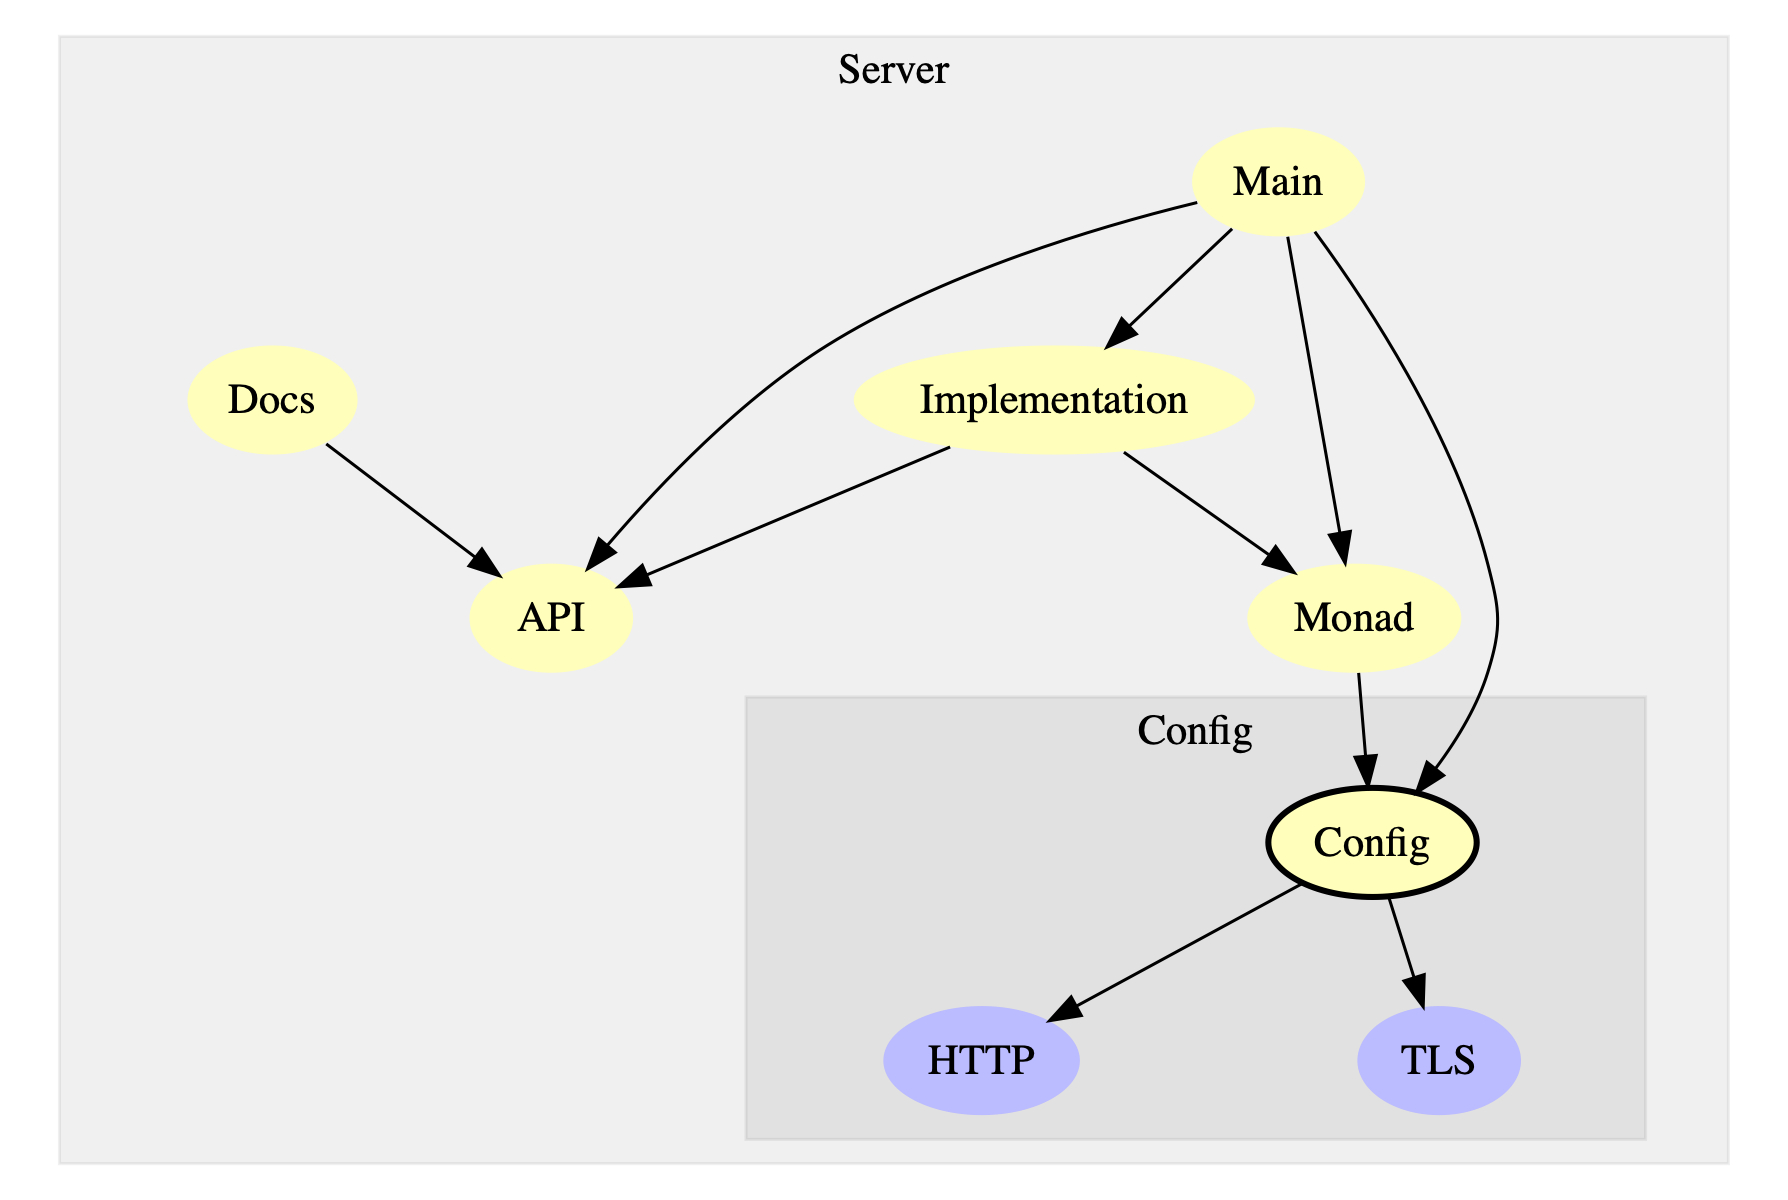
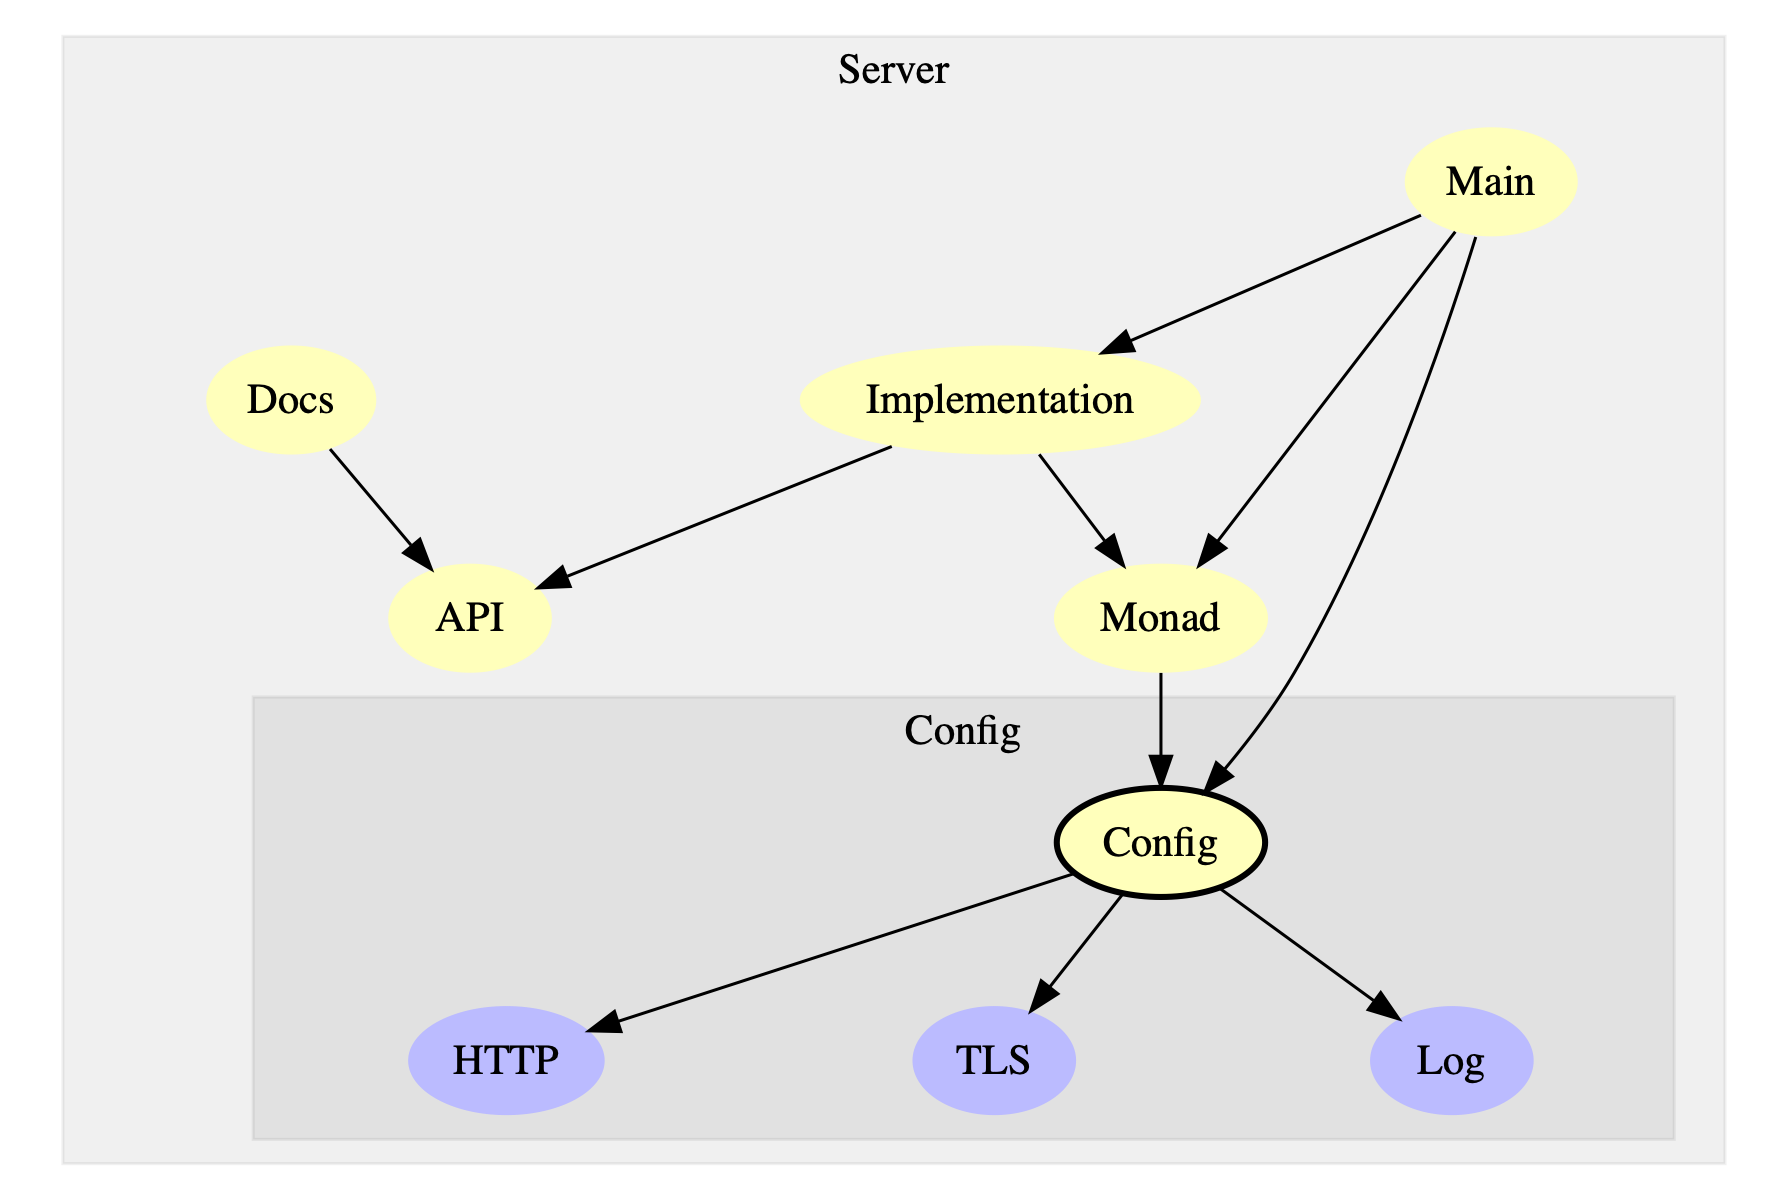
Added a minLogLevel setting to the config

diff --git a/README.md b/README.md
@@ -1,7 +1,15 @@
 # Haskell Server Template
 
-A minimal template for Haskell HTTP servers.
-https://github.com/SamuelSchlesinger/haskell-server-template/blob/dev/modules.png
+A minimal template for Haskell HTTP servers using [servant](https://www.servant.dev/),
+[wai](https://hackage.haskell.org/package/wai), [warp](https://hackage.haskell.org/package/warp),
+[fast-logger](https://hackage.haskell.org/package/fast-logger). The aim of
+this repository is to create a minimal template covering some of the
+boilerplate like settings for HTTP and TLS, minimally sane middleware like a
+request logger and an automatic HEAD request injector, and a start on a custom
+Prelude.
+
+This repository is licensed under the MIT license in order to allow people to
+use it in free software as well as proprietary.
 
 # Code Structure
 
